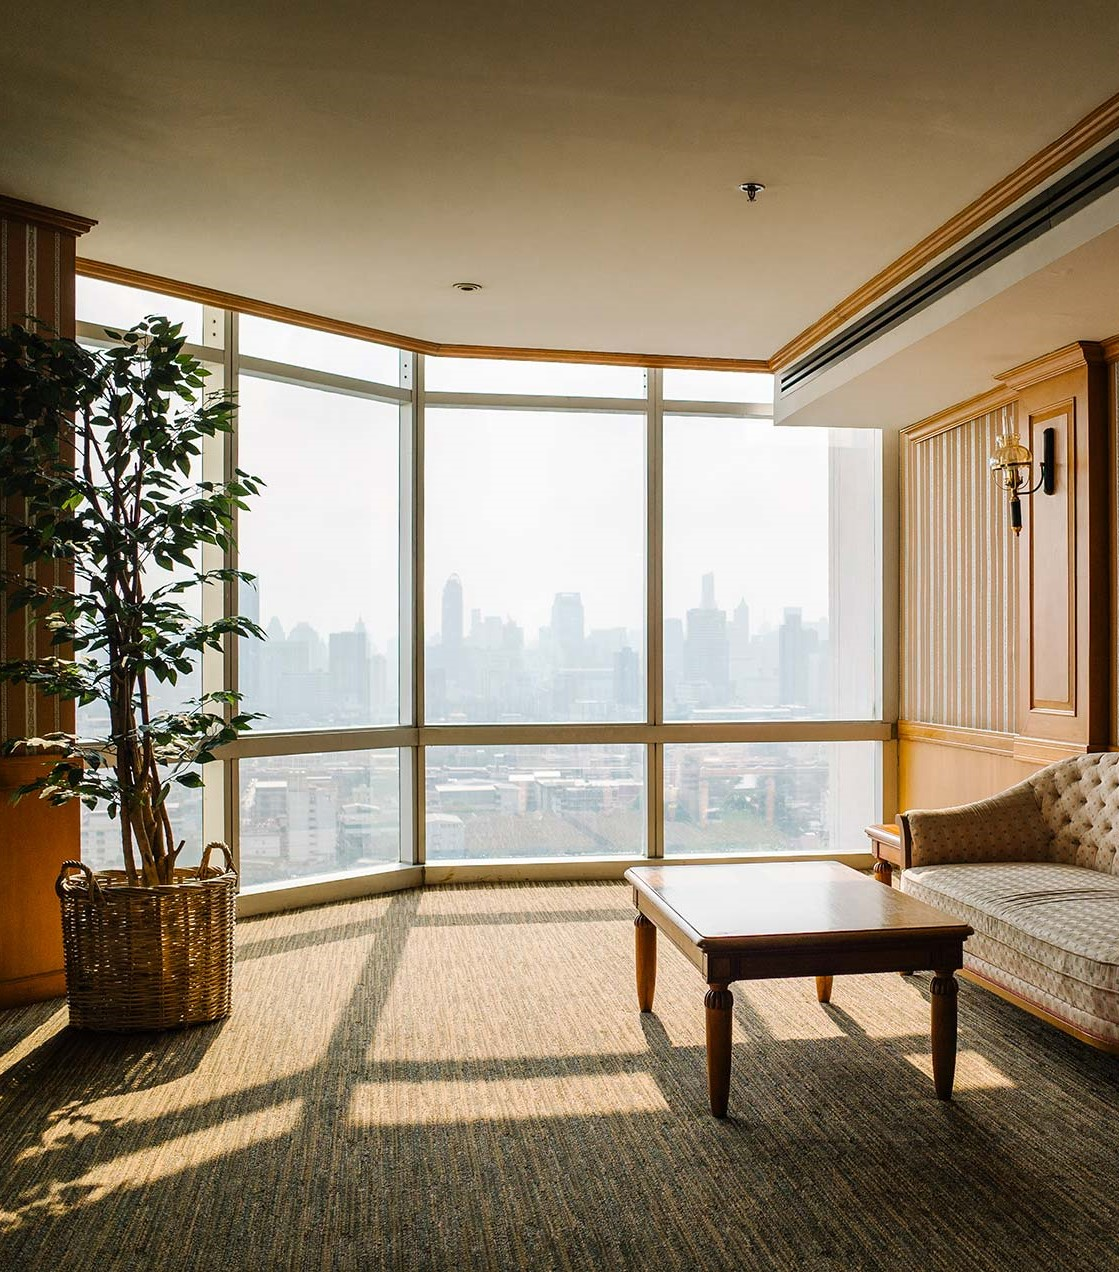
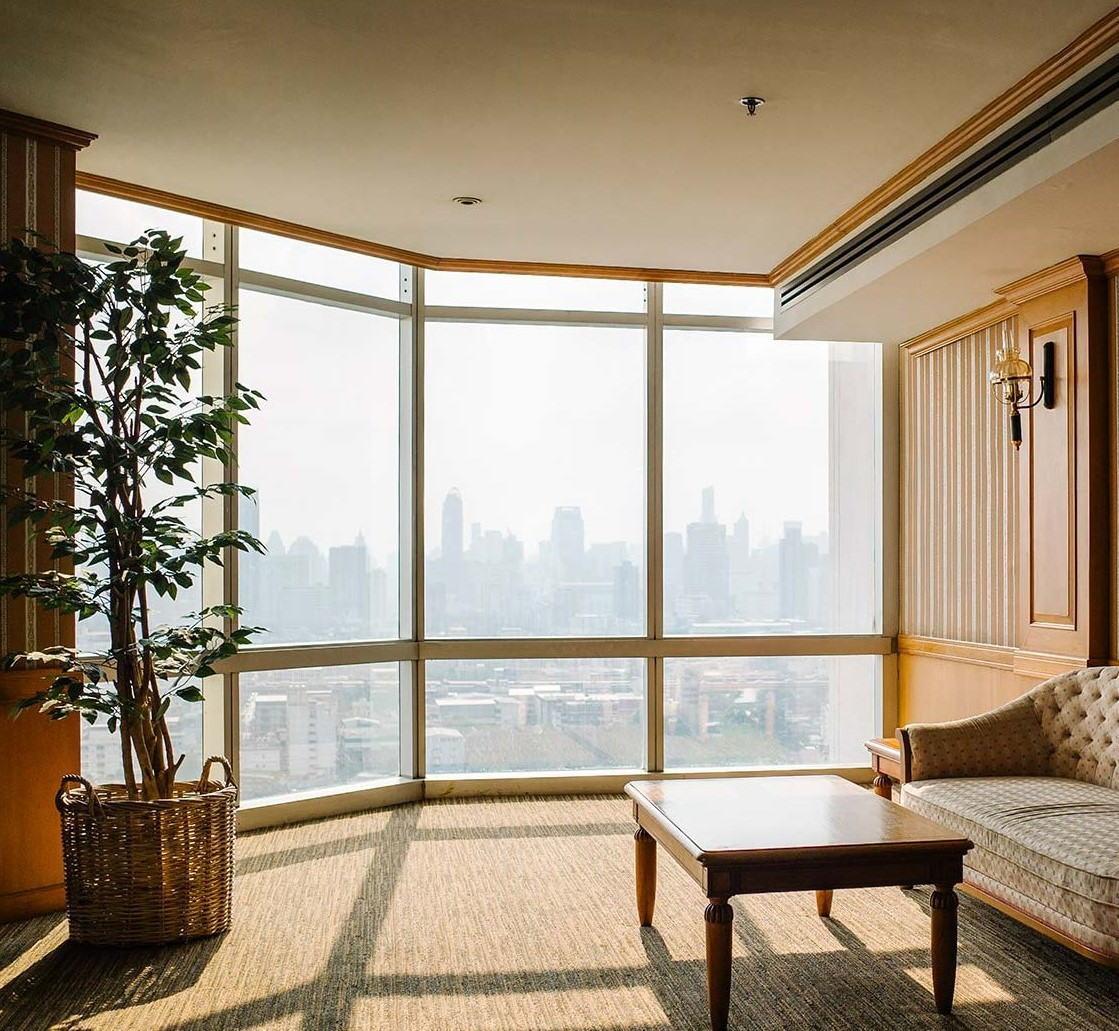
hero section img problem solved

diff --git a/src/components/HomeHero.jsx b/src/components/HomeHero.jsx
@@ -5,9 +5,9 @@ import heroImgMobile from '../assets/home-hero-mobile.jpg'
 
 const HomeHero = () => {
   return (
-    <div className="w-full h-screen relative overflow-hidden">
+    <div className="w-full h-screen relative overflow-hidden bg-black">
       {/* bg-cover bg-center bg-hero animate-background-zoom */}
-      <img src={heroImg} alt="" className='absolute hidden lg:block animate-background-zoom w-full object-cover z-0'/>
+      <img src={heroImg} alt="" className='absolute hidden lg:block animate-background-zoom h-full object-cover z-0'/>
       <img src={heroImgMobile} alt="" className='absolute lg:hidden animate-background-zoom h-full object-cover z-0'/>
     </div>
   )
